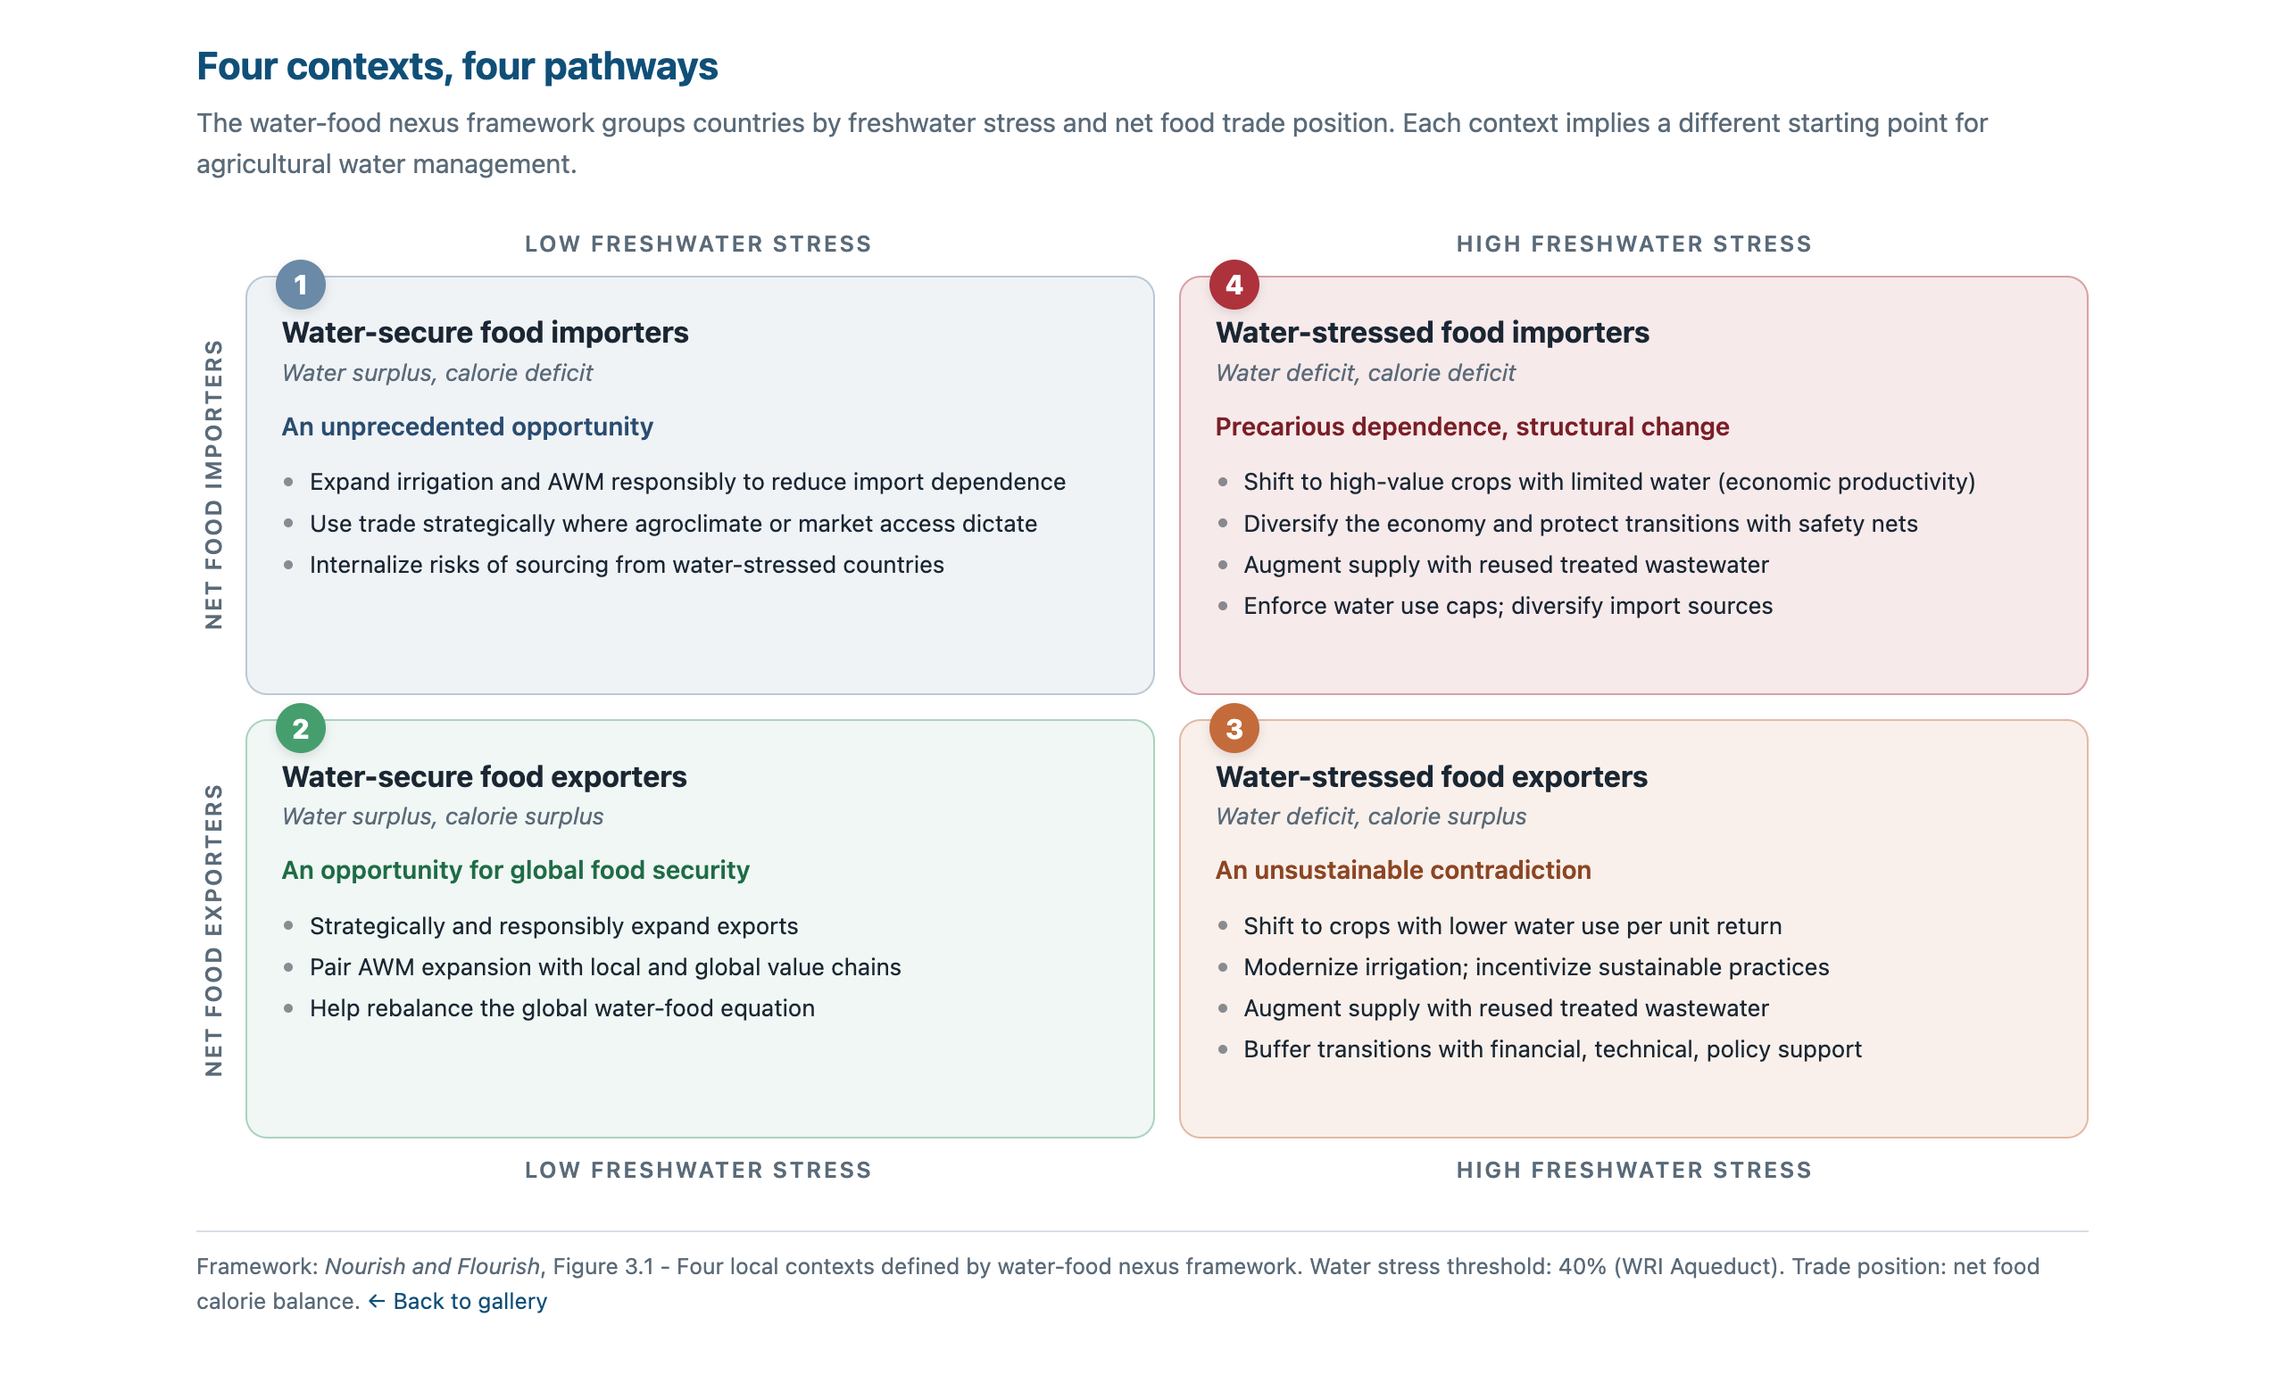
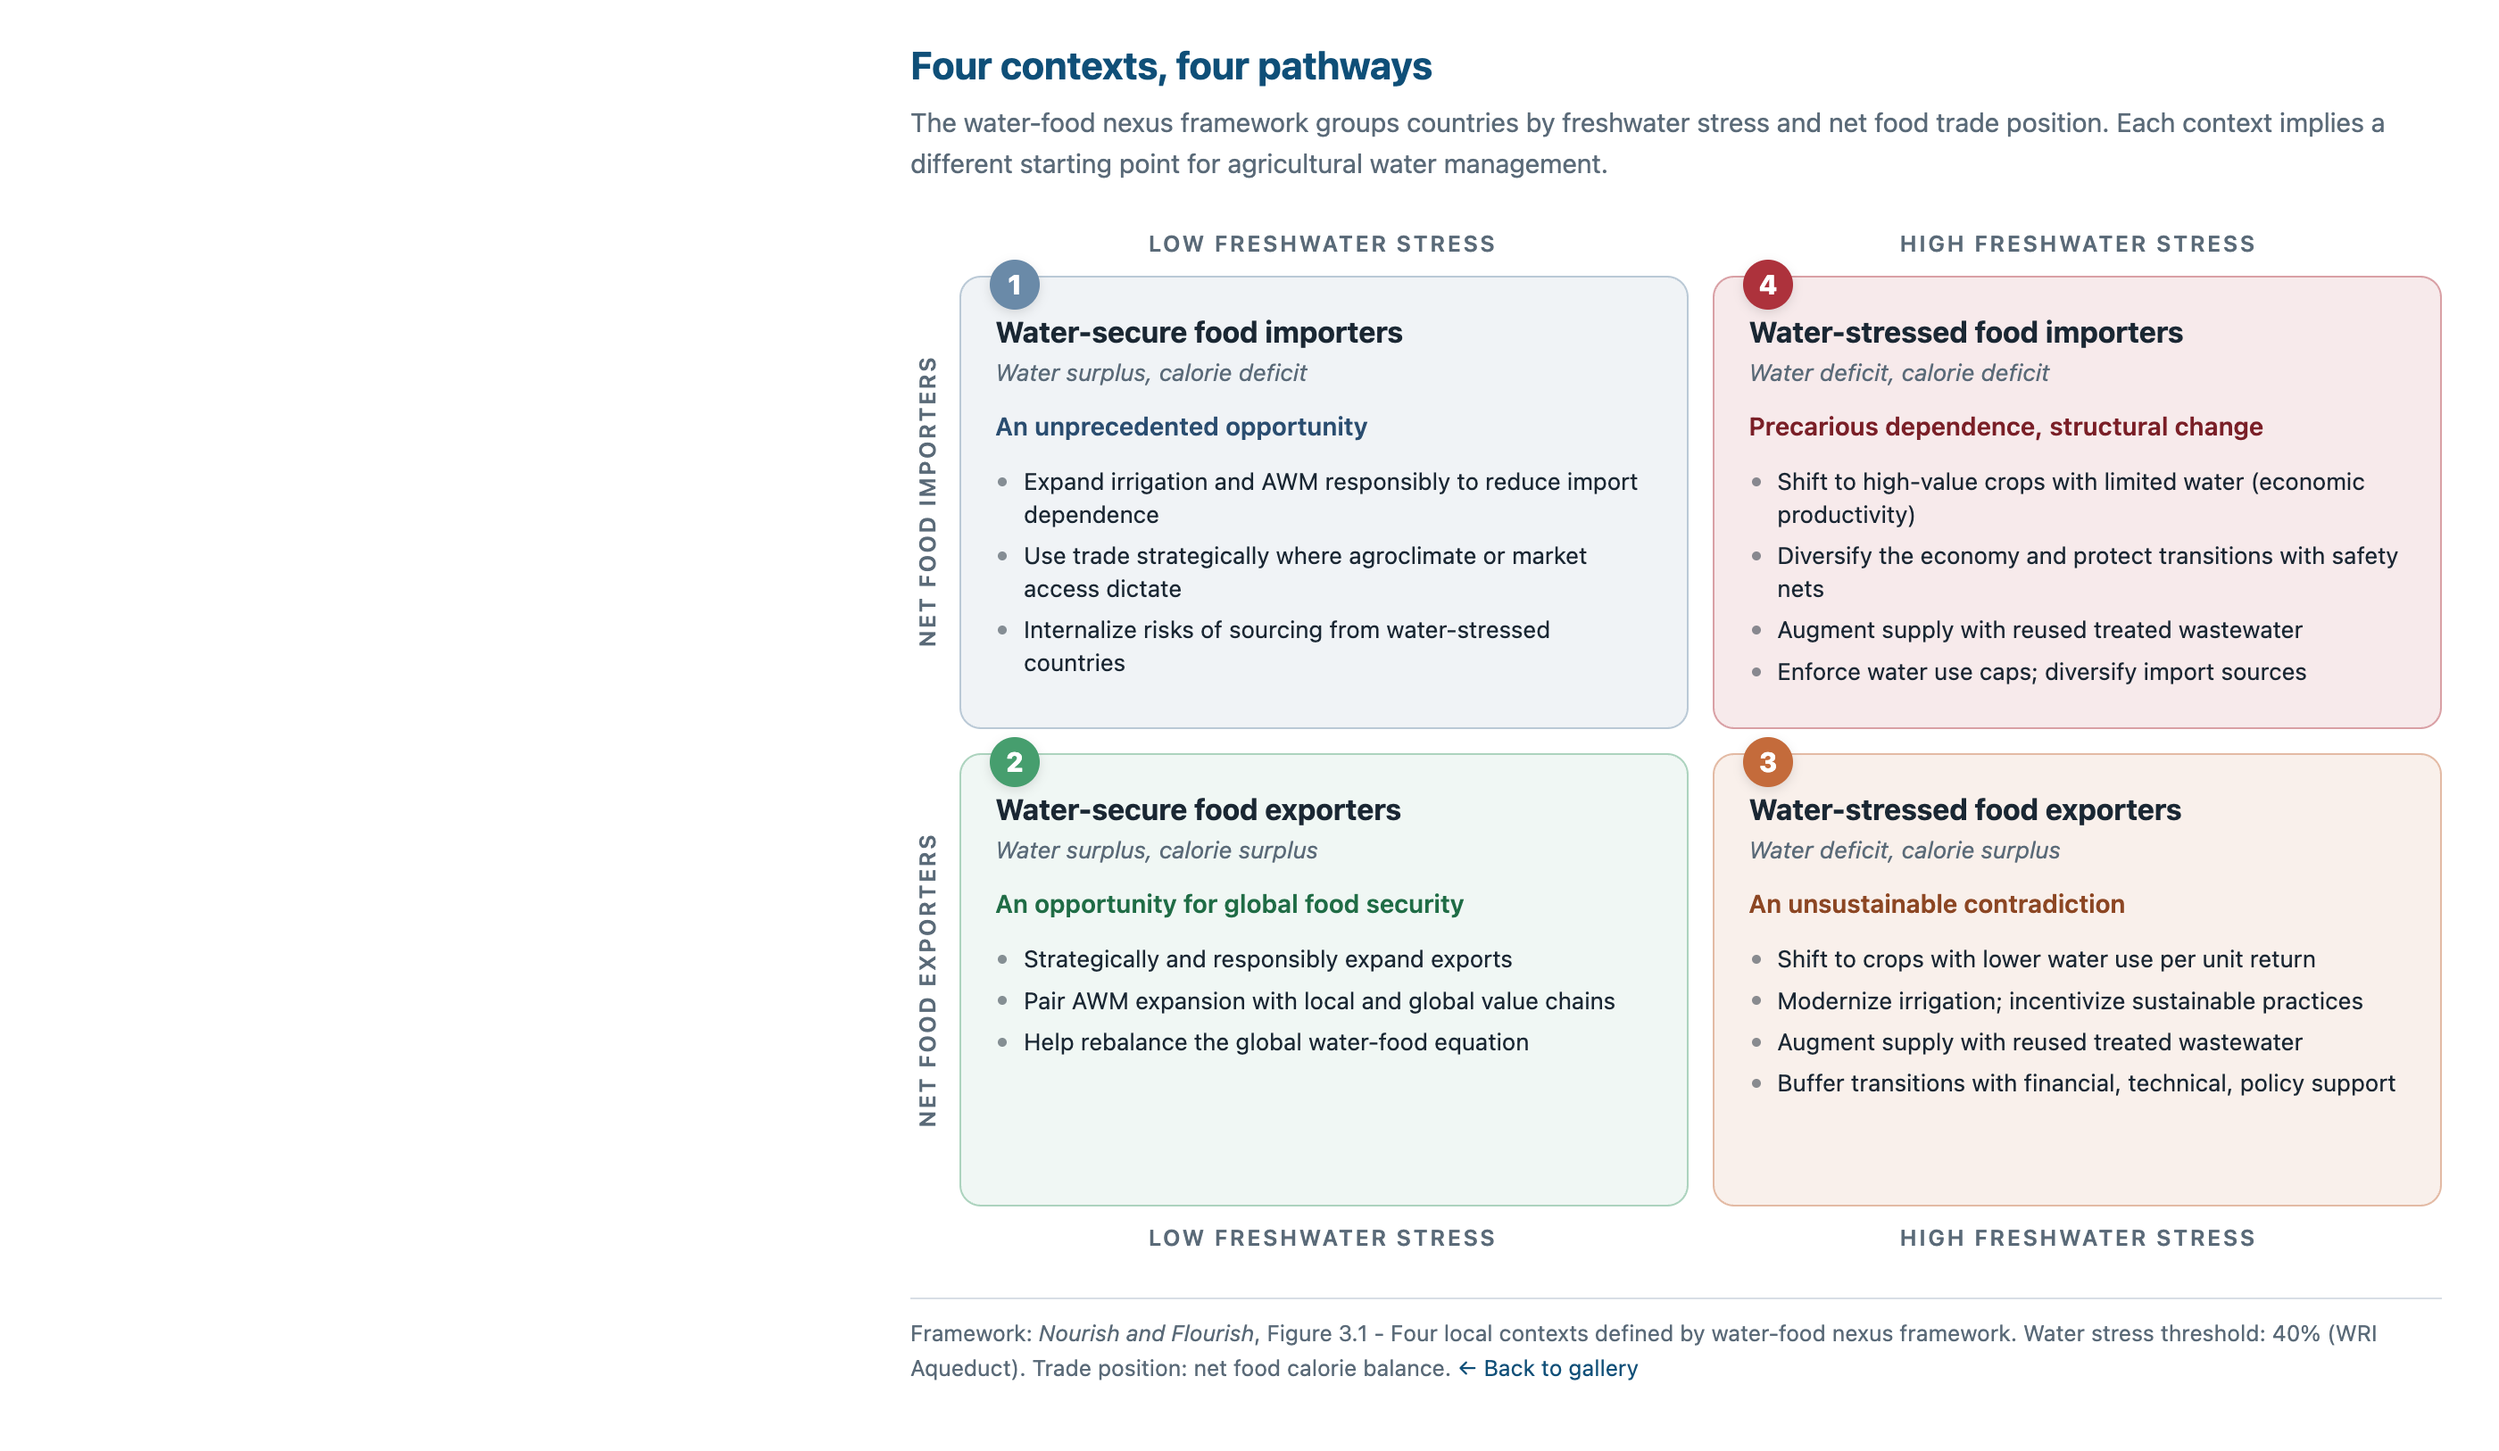
Shift framework PNG content to right side for sidecar overlay

diff --git a/viz/quadrant-framework.html b/viz/quadrant-framework.html
@@ -7,7 +7,20 @@
   <link rel="stylesheet" href="../assets/styles.css" />
   <style>
     body { background: #fff; }
+    /* Two layouts:
+       - Default (max-width 1100px, centered): for the standalone gallery page.
+       - Sidecar mode (?layout=right): content shifted to right 65%, leaving
+         the left 35% as whitespace so a StoryMap floating-panel narrative
+         can overlay without covering the quadrants. Triggered by adding
+         a `data-layout="right"` to <body> via the URL.
+    */
     .frame-page { padding: 1.25rem 1.25rem 1.5rem; max-width: 1100px; margin: 0 auto; }
+    body[data-layout="right"] .frame-page {
+      max-width: none;
+      width: 65%;
+      margin-left: 35%;
+      padding-right: 2rem;
+    }
     .frame-header h1 {
       font-size: 1.35rem;
       margin: 0 0 0.25rem;
@@ -182,6 +195,13 @@
   </style>
 </head>
 <body>
+  <script>
+    // Check URL for layout parameter
+    const params = new URLSearchParams(location.search);
+    if (params.get('layout') === 'right') {
+      document.body.setAttribute('data-layout', 'right');
+    }
+  </script>
   <div class="frame-page">
     <header class="frame-header">
       <h1>Four contexts, four pathways</h1>
